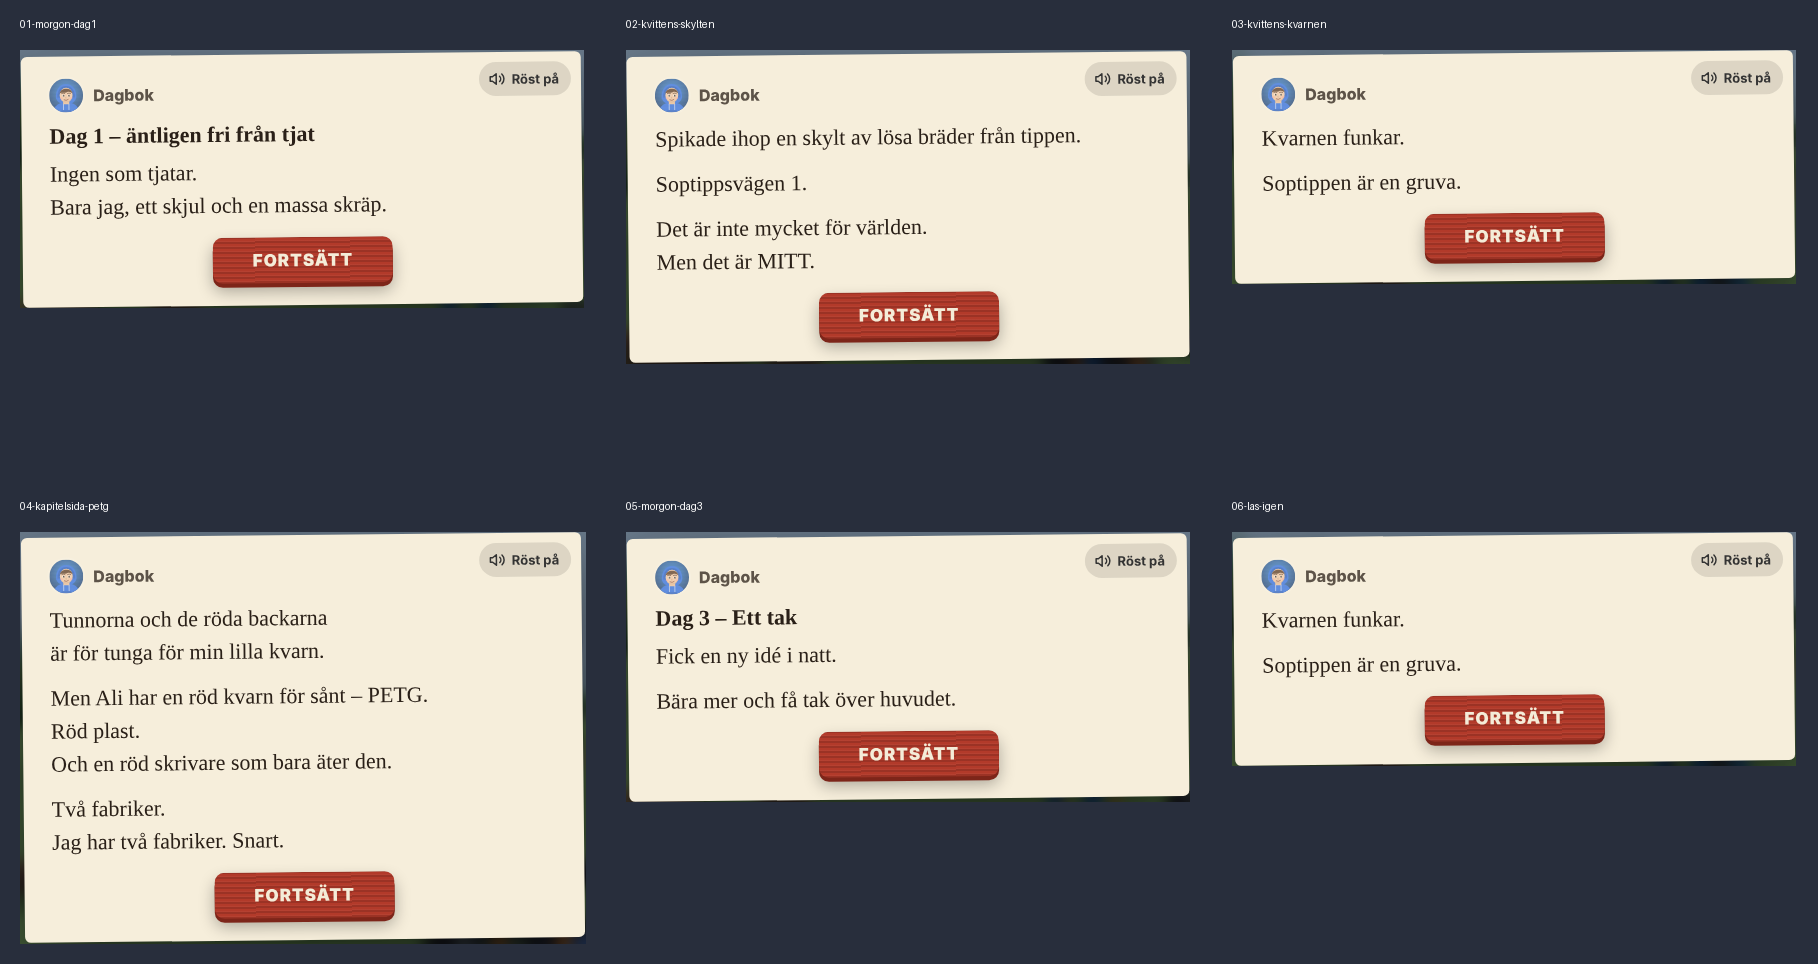
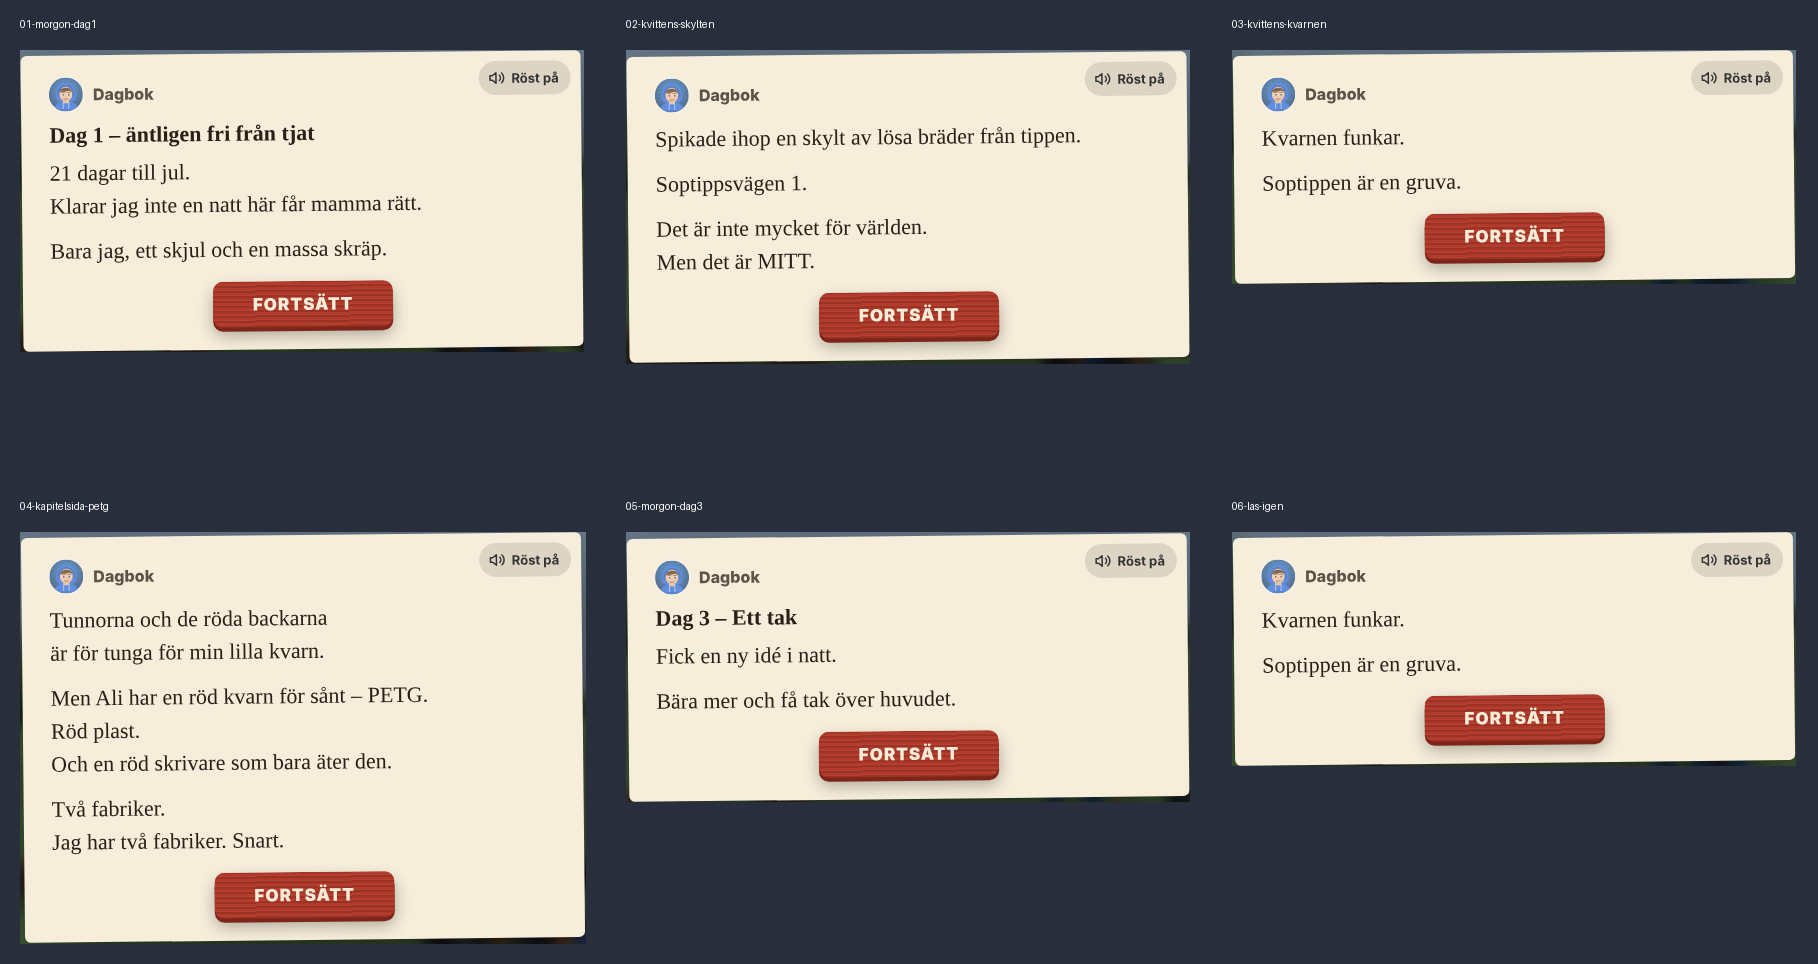
A-088: morgonkortet håller två meningar med insatsen, scenkort gör inte HUD-knappar döda
Claude-Session: https://claude.ai/code/session_014156cp9JxbGsW1A8ZsF5gD

Changed region(s): [[0.0, 0.0934, 0.3388, 0.3734], [0.2772, 0.0622, 0.308, 0.0934]]

diff --git a/spel/printa-hem/spel.js b/spel/printa-hem/spel.js
@@ -6256,7 +6256,7 @@ function sov() {
     const tanke = morgonTanke(); S.morgonTanke = tanke; S.morgonTankeIgar = tanke?.id || S.morgonTankeIgar;
     const ig = S.igar, rapport = ig ? `<span class="br-rapport">${S.saljLadaIgar ? `📦 Ali hämtade säljlådan i natt: ${S.saljLadaIgar.n} st · +${krT(S.saljLadaIgar.summa)} kr<br>` : ''}${S.webbIgar ? `🖥 Webbshopen: ${S.webbIgar.n} paket levererade · +${krT(S.webbIgar.du)} kr<br>` : ''}Igår: ${ig.printat} printat · ${ig.salt} sålt</span>` : '';
     /* A-076 tillägg 14:22/15:40: morgonsidan är dagbokskortet – högst 2 meningar, direkt när dagen börjar, spelet står still bakom */
-    const dagText = [[julRad(S.dag), INSATS[S.dag - 1]].filter(Boolean).join('\n'), nasta && DAG_STORY[S.dag - 1] ? DAG_STORY[S.dag - 1] : ''].filter(Boolean).join('\n\n') || 'En ny dag.';   /* A-088 §4: insatsen på rad två */
+    const dagText = [julKvar(S.dag), INSATS[S.dag - 1]].filter(Boolean).join('\n') || 'En ny dag.';   /* A-088 §4: insatsen på rad två. Dagnumret står i rubriken och insatsen är dagens mål, så DAG_STORY behövs inte här (LÅNG DAGBOK: högst 2 meningar) */
     if (S.dag <= JULAFTON_DAG && !INSATS[S.dag - 1]) regelvakt.brott('UTAN INSATS', `morgonkortet dag ${S.dag} har ingen andra rad`);   /* inkorg 24 p.2: nedräkningen först, sedan dagens mål. Morgontanken sägs som tanke efter dagens första mål (morgonkortStangt). */   /* inkorg 10d: en tanke per rad, luft emellan */
     const extra = `${aliVillHtml()}${rapport}${!nasta && S.julFirad ? efterspelHtml() : ''}`;
     const kapK = +Object.keys(KAP_RITNING).find((n) => KAP_RITNING[n].dag === S.dag) || 0, kapR = kapK && !(S.kapRitSedd || []).includes(kapK) ? KAP_RITNING[kapK] : null;
@@ -6272,7 +6272,8 @@ let morgonKo = null;
 function kapRitAuto() { let n = 0; const iv = setInterval(() => { const k = document.querySelector('.ph-kapritn'); if (!k) { if (++n > 40) clearInterval(iv); return; } clearInterval(iv); setTimeout(() => { if (document.querySelector('.ph-kapritn')) medEl2.querySelector('button.fp-knapp')?.click(); }, 6000); }, 250); }
 /* inkorg 24 p.2: morgonkortets första rad räknar ner till jul – julafton är dag 22. Ingen räknare i HUD. */
 /* A-088 §4: morgonkortets andra rad är insatsen – vad som händer annars (kylan, mamma eller julen). En per dag 1–22. */
-const INSATS = ['Klarar jag inte en natt här får mamma rätt.', 'Utan dörr blåser natten rakt in.', 'Utan tak regnar det in i natt.', 'Drar det i skjulet får mamma rätt.', 'Utan pengar blir det ingen jul här.', 'Utan en fabrik räcker pengarna inte till jul.', 'Säljer jag inget blir det tomt till jul.', 'Utan mer ström står allt still i kylan.', 'Utan pengar får mamma rätt.', 'I natt blir det kallt. Utan väggar fryser jag.', 'Utan värme håller jag inte till jul.', 'Står maskinerna still får mamma rätt.', 'Utan ett eget rum är det bara ett skjul.', 'Utan en fristad är det inget hem till jul.', 'Utan adress finns jag inte på riktigt.', 'Utan en egen tomt kan jag inte bli skriven här.', 'Utan pengar blir det inget hus före jul.', 'Utan grund blir det inget hus före jul.', 'Utan hus kommer mamma och hämtar mig.', 'Utan kamin får mamma rätt.', 'Utan adress får mamma rätt.', 'Utan skylt på dörren kör mamma hem med mig.'];
+const INSATS = ['Klarar jag inte en natt här får mamma rätt.', 'Utan dörr blåser natten rakt in.', 'Utan tak regnar det in i natt.', 'Drar det i skjulet får mamma rätt.', 'Utan pengar blir det ingen jul här.', 'Utan en fabrik räcker pengarna inte till jul.', 'Säljer jag inget blir det tomt till jul.', 'Utan mer ström står allt still i kylan.', 'Utan pengar får mamma rätt.', 'Utan väggar fryser jag i natt.', 'Utan värme håller jag inte till jul.', 'Står maskinerna still får mamma rätt.', 'Utan ett eget rum är det bara ett skjul.', 'Utan en fristad är det inget hem till jul.', 'Utan adress finns jag inte på riktigt.', 'Utan en egen tomt kan jag inte bli skriven här.', 'Utan pengar blir det inget hus före jul.', 'Utan grund blir det inget hus före jul.', 'Utan hus kommer mamma och hämtar mig.', 'Utan kamin får mamma rätt.', 'Utan adress får mamma rätt.', 'Utan skylt på dörren kör mamma hem med mig.'];
+function julKvar(dag) { return julRad(dag).replace(/^Dag \d+\. /, ''); }   /* nedräkningen utan dagnumret – det står redan i rubriken */
 function julRad(dag) { const kvar = JULAFTON_DAG - dag; return kvar > 0 ? `Dag ${dag}. ${kvar} ${kvar === 1 ? 'dag' : 'dagar'} till jul.` : kvar === 0 ? 'Julafton.' : ''; }
 // BN: en mening per dag om dagens storymål (dag 1–22)
 const DAG_STORY = ['Få igång skrivaren och sova i en egen säng.', 'Städa upp – och kanske träffa grannarna.', 'Bära mer och få tak över huvudet.', 'Sluta trampa och stänga ute kylan.', 'Fler skrivare och ett riktigt mysigt skjul.',
@@ -11488,7 +11489,8 @@ function dagbokMatt(k) { const cs = getComputedStyle(k), tx = k.querySelector('.
 function dagbokRader(t) { return rens(String(t || '')).split(/\n\s*\n/).map((st) => st.split('\n').map((r) => r.trim()).join('<br>')).join('<span class="ph-dk-luft"></span>'); }
 function dagbokKort(text, o = {}) {
   const t = String(text || '').trim(); if (!t) return;
-  if (o.morgon) { const meningar = t.split(/(?<=[.!?…])\s+/).filter((x) => /\p{L}/u.test(x)).length, ord = t.split(/\s+/).filter(Boolean).length; if (meningar > DAGBOK_MAX_MENINGAR || ord > DAGBOK_MAX_ORD) langDagbok.push(`dag ${S.dag}: ${meningar} meningar, ${ord} ord`); }
+  if (o.morgon) { const tr = t.replace(/^(\d+ dagar? till jul|Julafton)\.$/m, '').trim();   /* A-088: nedräkningen är en statusrad, ingen tanke – den räknas inte */
+    const meningar = tr.split(/(?<=[.!?…])\s+/).filter((x) => /\p{L}/u.test(x)).length, ord = tr.split(/\s+/).filter(Boolean).length; if (meningar > DAGBOK_MAX_MENINGAR || ord > DAGBOK_MAX_ORD) langDagbok.push(`dag ${S.dag}: ${meningar} meningar, ${ord} ord`); }
   const m = { typ: 'dagbok', titel: 'Dagbok', text: t, rubrik: o.rubrik || '', id: o.id, kvitto: o.kvitto, efter: o.efter, extra: o.extra || '', vem: o.vem || 'du', morgon: !!o.morgon, lasIgen: !!o.lasIgen };
   if (o.forst || o.morgon || o.lasIgen) medKo.unshift(m); else medKo.push(m);
   if (medEl2.hidden) visaNastaMeddelande();
@@ -13123,7 +13125,8 @@ const dagMalHtml = (lista) => `<ul class="ph-dagmal">${lista.map((x) => `<li cla
 const DAG1_NOTIS = 'Dag 1 – äntligen fri från tjat.';
 /* A-076 tillägg 13:20 (facit 13:26): bara nästa uppgift syns. Dagboksnotisen läser känslan och slutar med att du säger första uppgiften –
    uppgiftsrutan glider in medan det sägs, och notisen tonas bort. Ingen lista över dagens mål någonstans. */
-const DAG1_KANSLA = ['Ingen som tjatar.', 'Bara jag, ett skjul och en massa skräp.'];   /* A-076 tillägg 14:20: högst 2 korta meningar */
+const DAG1_KANSLA = ['Ingen som tjatar.',   /* A-088: [0] visas inte längre – rubriken säger redan ”fri från tjat” och insatsen tog platsen */
+   'Bara jag, ett skjul och en massa skräp.'];   /* A-076 tillägg 14:20: högst 2 korta meningar */
 const DAG1_FORST = 'Först borde jag spika upp en skylt, så att alla ser att jag bor HÄR.';   /* A-088 §1: skylten är den röda tråden */   /* inkorg 12d: första gången – obestämd form och varför */
 /* A-076 tillägg 15:40: morgonsidan startas av händelsen "dagen börjar" (efter introt eller sömnen) – direkt, före allt i kön.
    Spelet står still bakom kortet. FORTSÄTT → du säger första uppgiften och uppgiftsrutan glider in. */
@@ -13132,7 +13135,7 @@ function dagenBorjar(kort) { dagBorjadeT = performance.now(); handelse('dagenBor
 function visaDagNotis() {
   if (S.dag !== 1 || S.dag1Sida) return; S.dag1Sida = true; S.dag1Forsta = true; sparaSnart();
   document.body.classList.add('dn-forsta');
-  dagenBorjar(() => dagbokKort([julRad(1) + '\n' + INSATS[0], DAG1_KANSLA.join('\n')].join('\n\n'), { rubrik: DAG1_NOTIS.replace(/\.$/, ''), morgon: true, efter: () => {
+  dagenBorjar(() => dagbokKort([julKvar(1) + '\n' + INSATS[0], DAG1_KANSLA[1]].join('\n\n'), { rubrik: DAG1_NOTIS.replace(/\.$/, ''), morgon: true, efter: () => {
     prata('du', DAG1_FORST, 'STORY', { forst: true, start: () => { document.body.classList.remove('dn-forsta'); handelse('dagNotisKlar'); } });
     setTimeout(() => document.body.classList.remove('dn-forsta'), 6000);   // reserv om rösten inte kommer igång
   } }));
@@ -16881,7 +16884,7 @@ if (ui) {
   /* inkorg 10c: en knapp som ser klickbar ut måste gå att klicka – inte pointer-events:none och inte täckt av något annat */
   regelvakt.regel('DÖD KNAPP', () => {
     const tackt = (dodKnappTackt ||= new Map());
-    if (!ui.igang || pausad || !ui.overlay.hidden || !ui.butiksOverlay.hidden || !medEl2.hidden || [...document.querySelectorAll('.fp-overlay')].some((o) => !o.hidden && o.offsetParent)) { tackt.clear(); return []; }
+    if (!ui.igang || pausad || !ui.overlay.hidden || !ui.butiksOverlay.hidden || !medEl2.hidden || [...document.querySelectorAll('.fp-overlay')].some((o) => !o.hidden && o.offsetParent) || document.querySelector('.ph-fel, .ph-intro, .ph-intro3, .ph-kap, .ph-kapkort, .ph-jul, .ph-resa')) { tackt.clear(); return []; }   /* AX A-088: en helskärmsscen (kapitelslut, jul, resa) täcker HUD:en med flit – knappen är inte död */
     const ut = [], nu = performance.now(), sett = new Set();   /* täckt i mer än 3 s räknas – en notis som glider förbi gör inte knappen död */
     for (const el of document.querySelectorAll('.ph-lasupp, [data-hjalp], .ph-kontroll button, .dn-uppg button, .ph-notis button, .ph-dagbokkort button')) {
       const r = el.getBoundingClientRect(); if (!r.width || !r.height || !el.offsetParent) continue;
